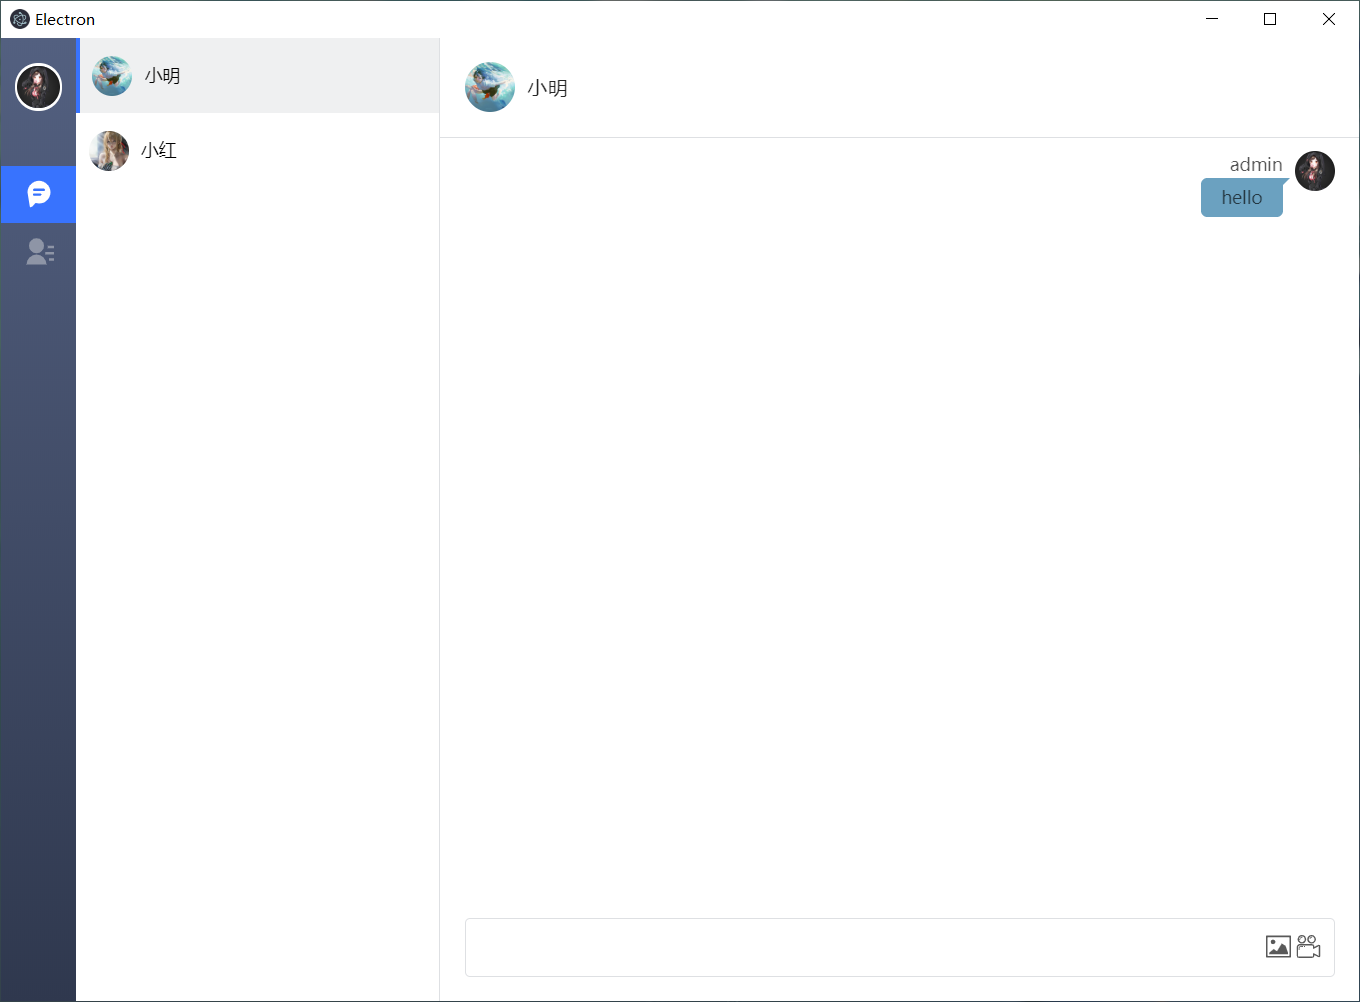
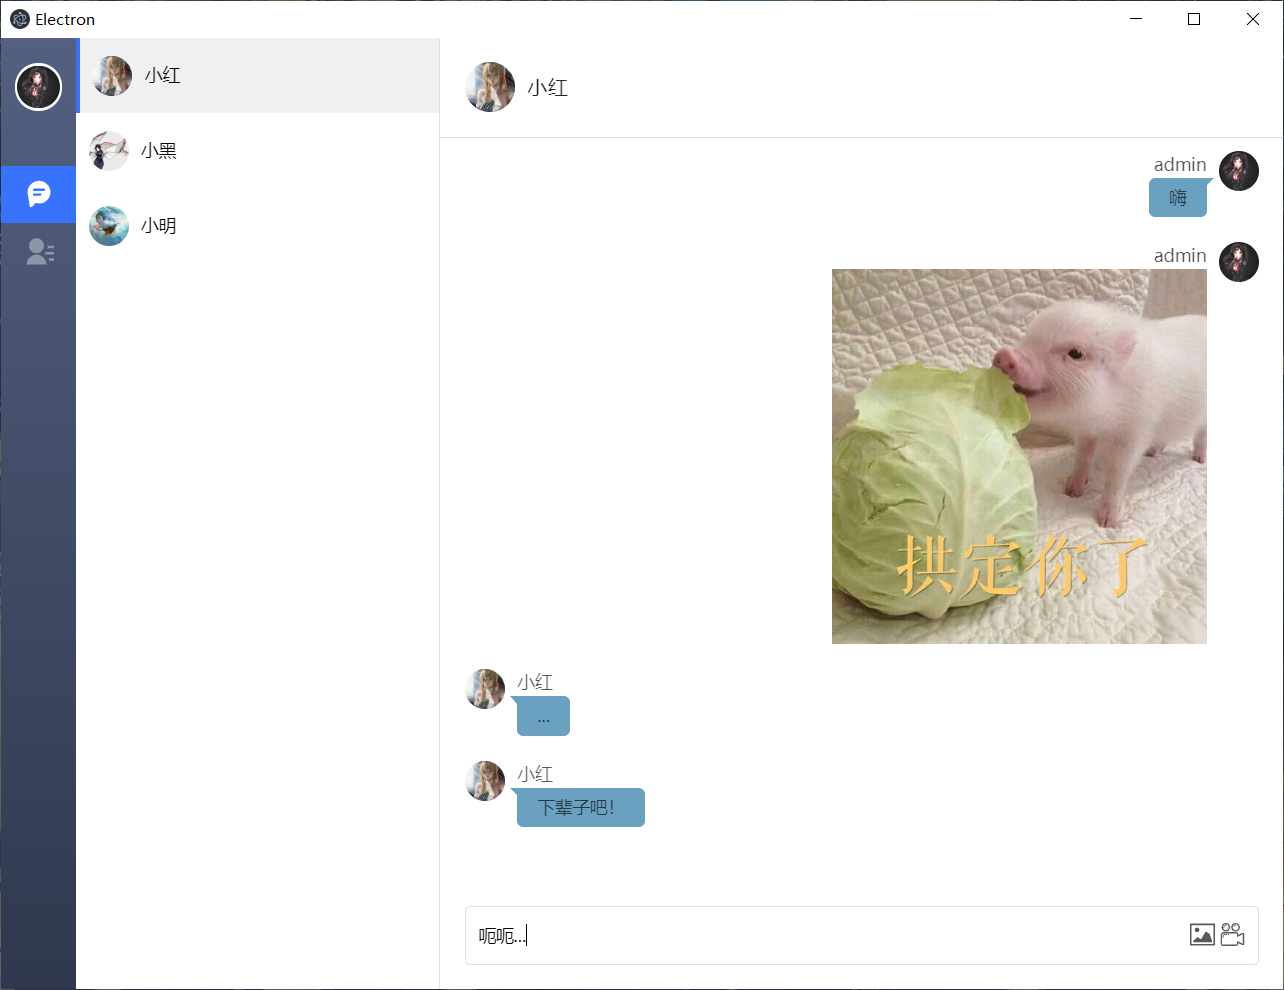
:memo: docs: update screenshot and progress description

diff --git a/src/renderer/pages/chat/style.scss b/src/renderer/pages/chat/style.scss
@@ -102,6 +102,10 @@
                             border-width: 0 0 6px 6px;
                         }
                     }
+
+                    .message-image {
+                        max-width: 300px;
+                    }
                 }
             }
         }
